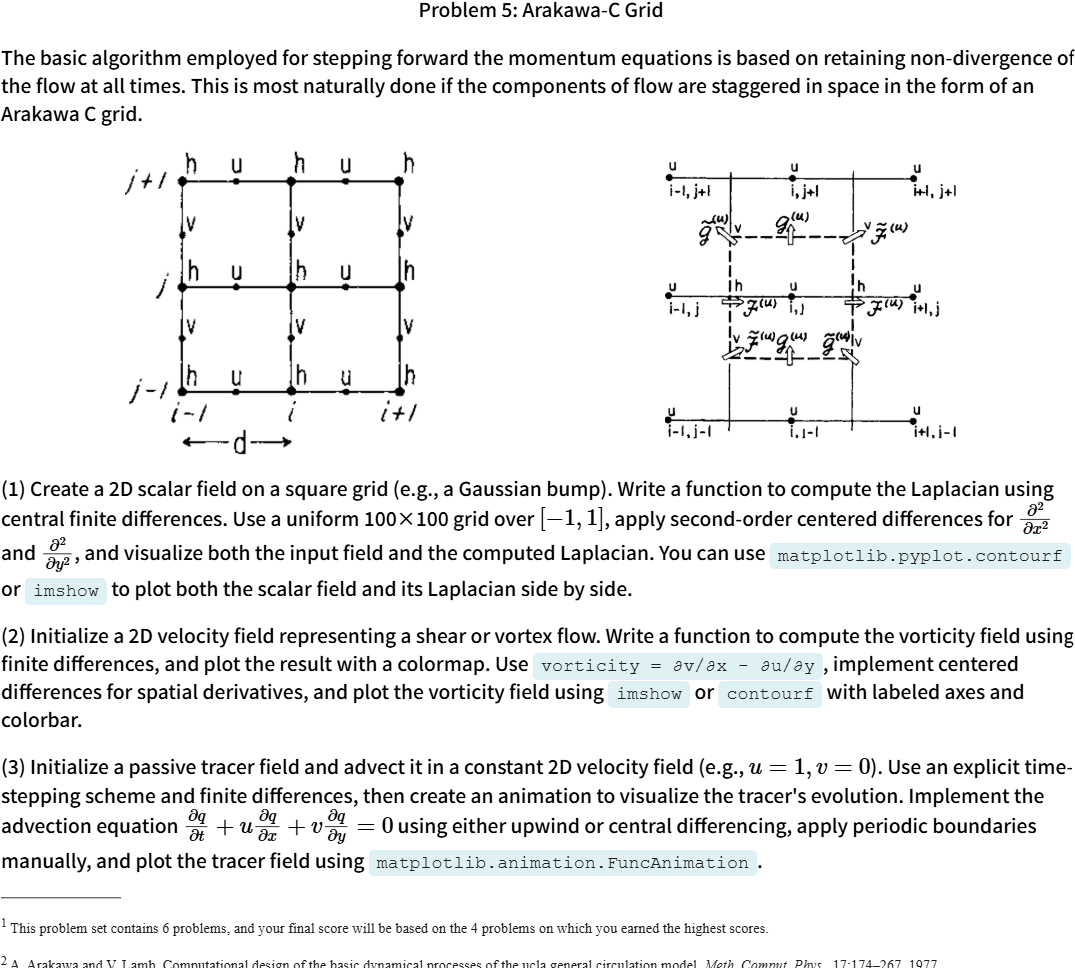
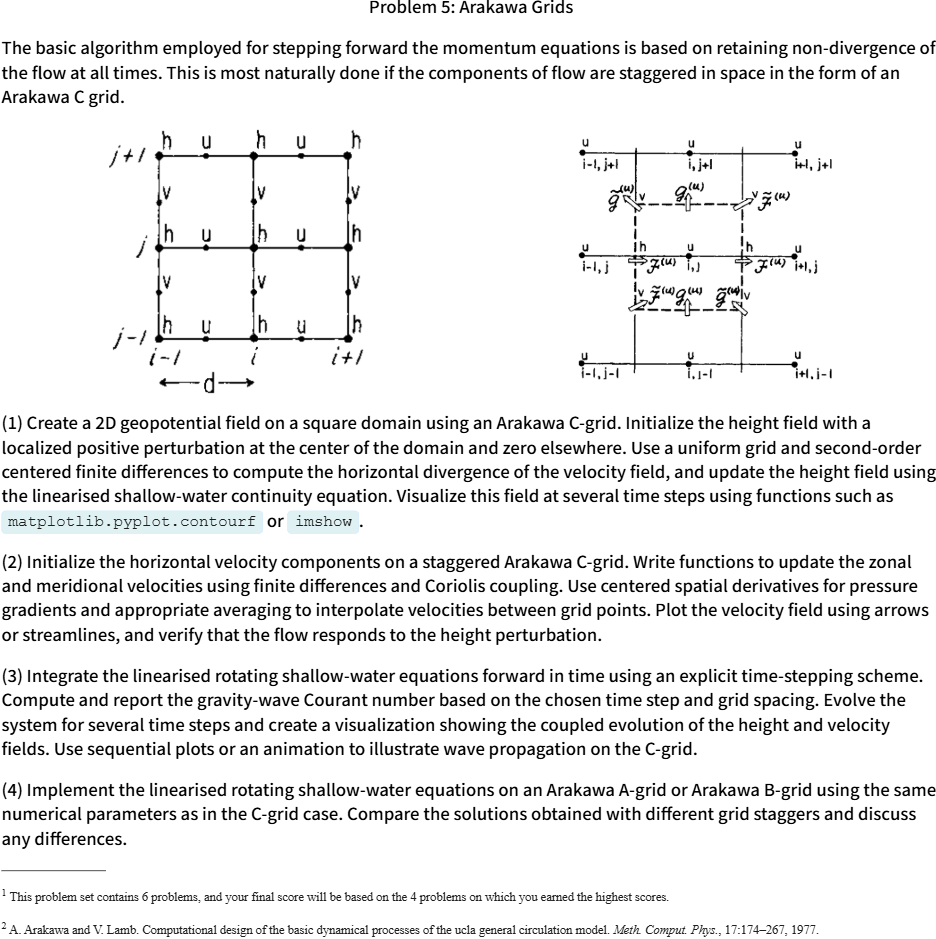
Update

Changed region(s): [[0.0, 0.1544, 1.0, 1.0], [0.0, 0.0, 1.0, 0.1235], [0.8365, 0.3706, 0.8675, 0.4015]]

diff --git a/PS3Slide6.html b/PS3Slide6.html
@@ -99,7 +99,7 @@ window.addEventListener('resize', scaleContainer);
 </head>
 <body>
     <div class="container">
-        <div class="title">Problem 5: Arakawa-C Grid</div>
+        <div class="title">Problem 5: Arakawa Grids</div>
 
         <div class="slide">     
         <p>The basic algorithm employed for stepping forward the momentum equations is based on retaining non-divergence of the flow at all times. This is most naturally done if the components of flow are staggered in space in the form of an Arakawa C grid.</p>
@@ -107,20 +107,27 @@ window.addEventListener('resize', scaleContainer);
                 <img src="Figures/PS3_ArakawaCScheme.png" alt="ArakawaCScheme" style="max-width: 27%; height: auto; display: block; margin: auto;">
                 <img src="Figures/PS3_ArakawaCShallowWater.png" alt="ArakawaCShallowWater" style="max-width: 27%; height: auto; display: block; margin: auto;">
             </div>
-<p>(1) Create a 2D scalar field on a square grid (e.g., a Gaussian bump). Write a function to compute the Laplacian using central finite differences. 
-    Use a uniform 100×100 grid over \([-1,1]\), apply second-order centered differences for \(\frac{\partial^2}{\partial x^2}\) and \(\frac{\partial^2}{\partial y^2}\), and visualize both the input field and the computed Laplacian.
-    You can use <code>matplotlib.pyplot.contourf</code> or <code>imshow</code> to plot both the scalar field and its Laplacian side by side.
+<p>(1) Create a 2D geopotential field on a square domain using an Arakawa C-grid.
+    Initialize the height field with a localized positive perturbation at the center of the domain and zero elsewhere.
+    Use a uniform grid and second-order centered finite differences to compute the horizontal divergence of the velocity field,
+    and update the height field using the linearised shallow-water continuity equation.
+    Visualize this field at several time steps using functions such as <code>matplotlib.pyplot.contourf</code> or <code>imshow</code>.
 </p>
 
 
-<p>(2) Initialize a 2D velocity field representing a shear or vortex flow. 
-    Write a function to compute the vorticity field using finite differences, and plot the result with a colormap.
-    Use <code>vorticity = ∂v/∂x - ∂u/∂y</code>, implement centered differences for spatial derivatives, and plot the vorticity field using <code>imshow</code> or <code>contourf</code> with labeled axes and colorbar.
+<p>(2) Initialize the horizontal velocity components on a staggered Arakawa C-grid.
+    Write functions to update the zonal and meridional velocities using finite differences and Coriolis coupling.
+    Use centered spatial derivatives for pressure gradients and appropriate averaging to interpolate velocities between grid points.
+    Plot the velocity field using arrows or streamlines, and verify that the flow responds to the height perturbation.
 </p>
 
-<p>(3) Initialize a passive tracer field and advect it in a constant 2D velocity field (e.g., \(u = 1, v = 0\)). 
-    Use an explicit time-stepping scheme and finite differences, then create an animation to visualize the tracer's evolution.
-    Implement the advection equation \(\frac{\partial q}{\partial t} + u \frac{\partial q}{\partial x} + v \frac{\partial q}{\partial y} = 0\) using either upwind or central differencing, apply periodic boundaries manually, and plot the tracer field using <code>matplotlib.animation.FuncAnimation</code>.
+<p>(3) Integrate the linearised rotating shallow-water equations forward in time using an explicit time-stepping scheme.
+    Compute and report the gravity-wave Courant number based on the chosen time step and grid spacing.
+    Evolve the system for several time steps and create a visualization showing the coupled evolution of the height and velocity fields.
+    Use sequential plots or an animation to illustrate wave propagation on the C-grid.
+</p>
+
+<p>(4) Implement the linearised rotating shallow-water equations on an Arakawa A-grid or Arakawa B-grid using the same numerical parameters as in the C-grid case. Compare the solutions obtained with different grid staggers and discuss any differences.
 </p>
 
         <!-- Footnote Section -->
